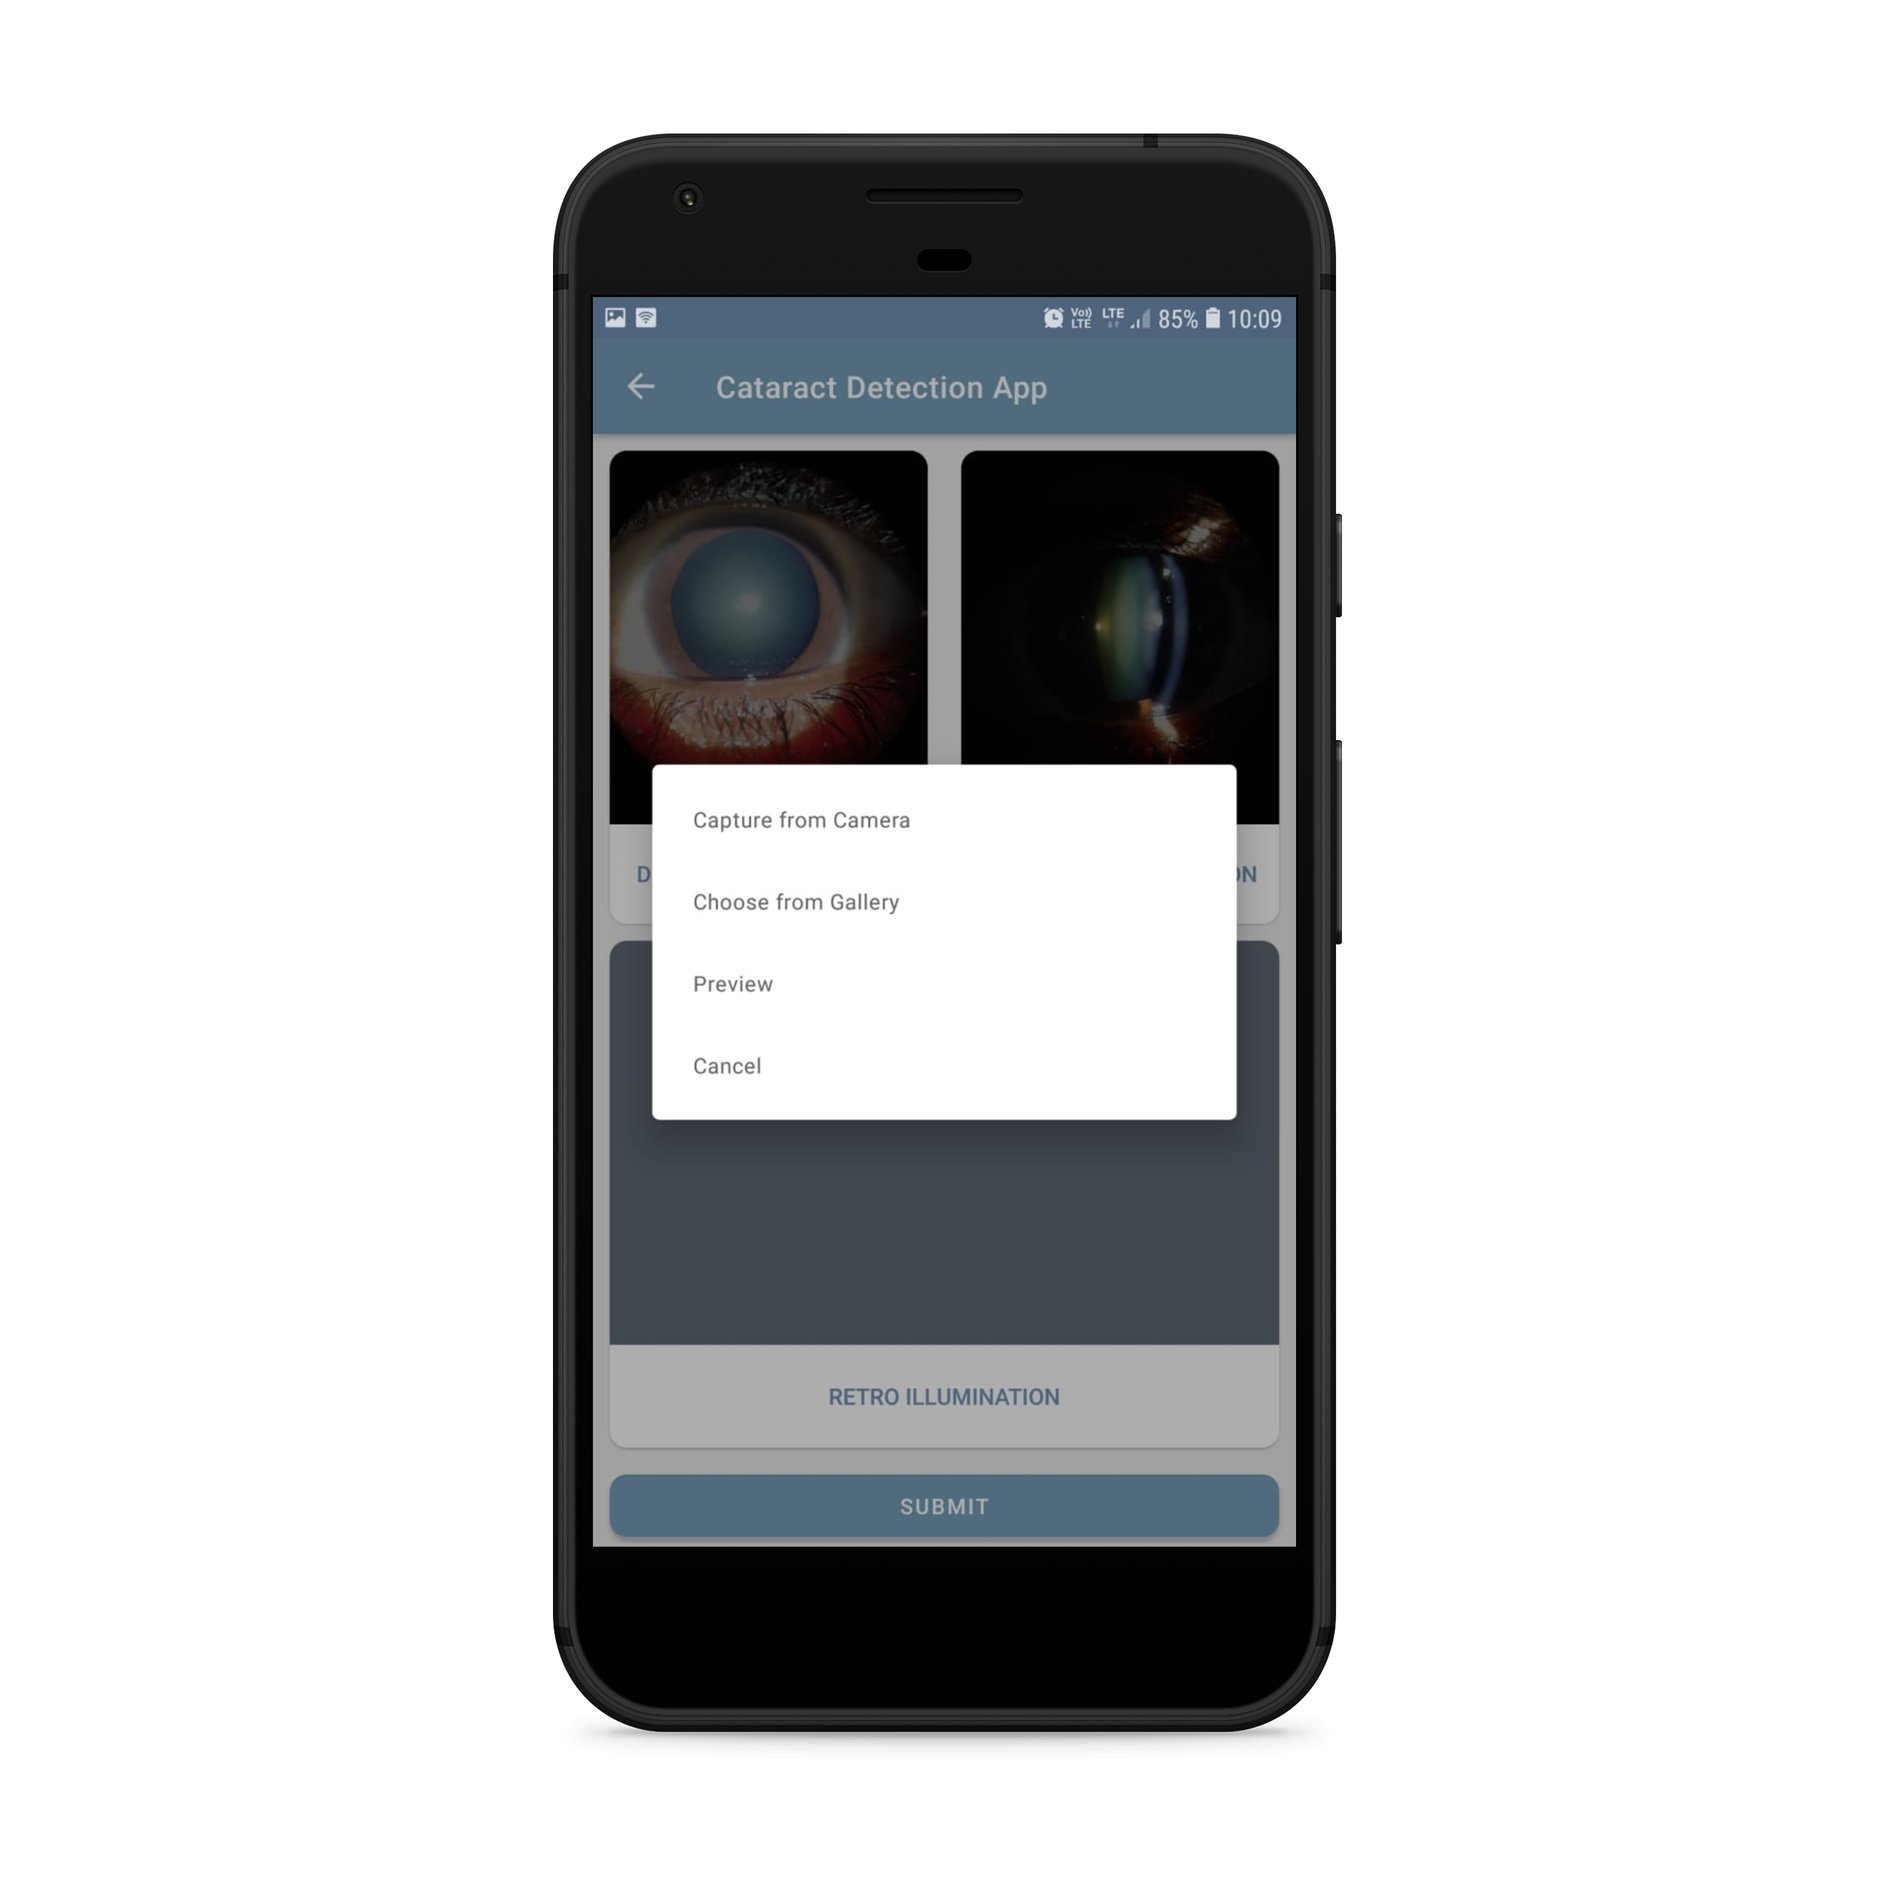
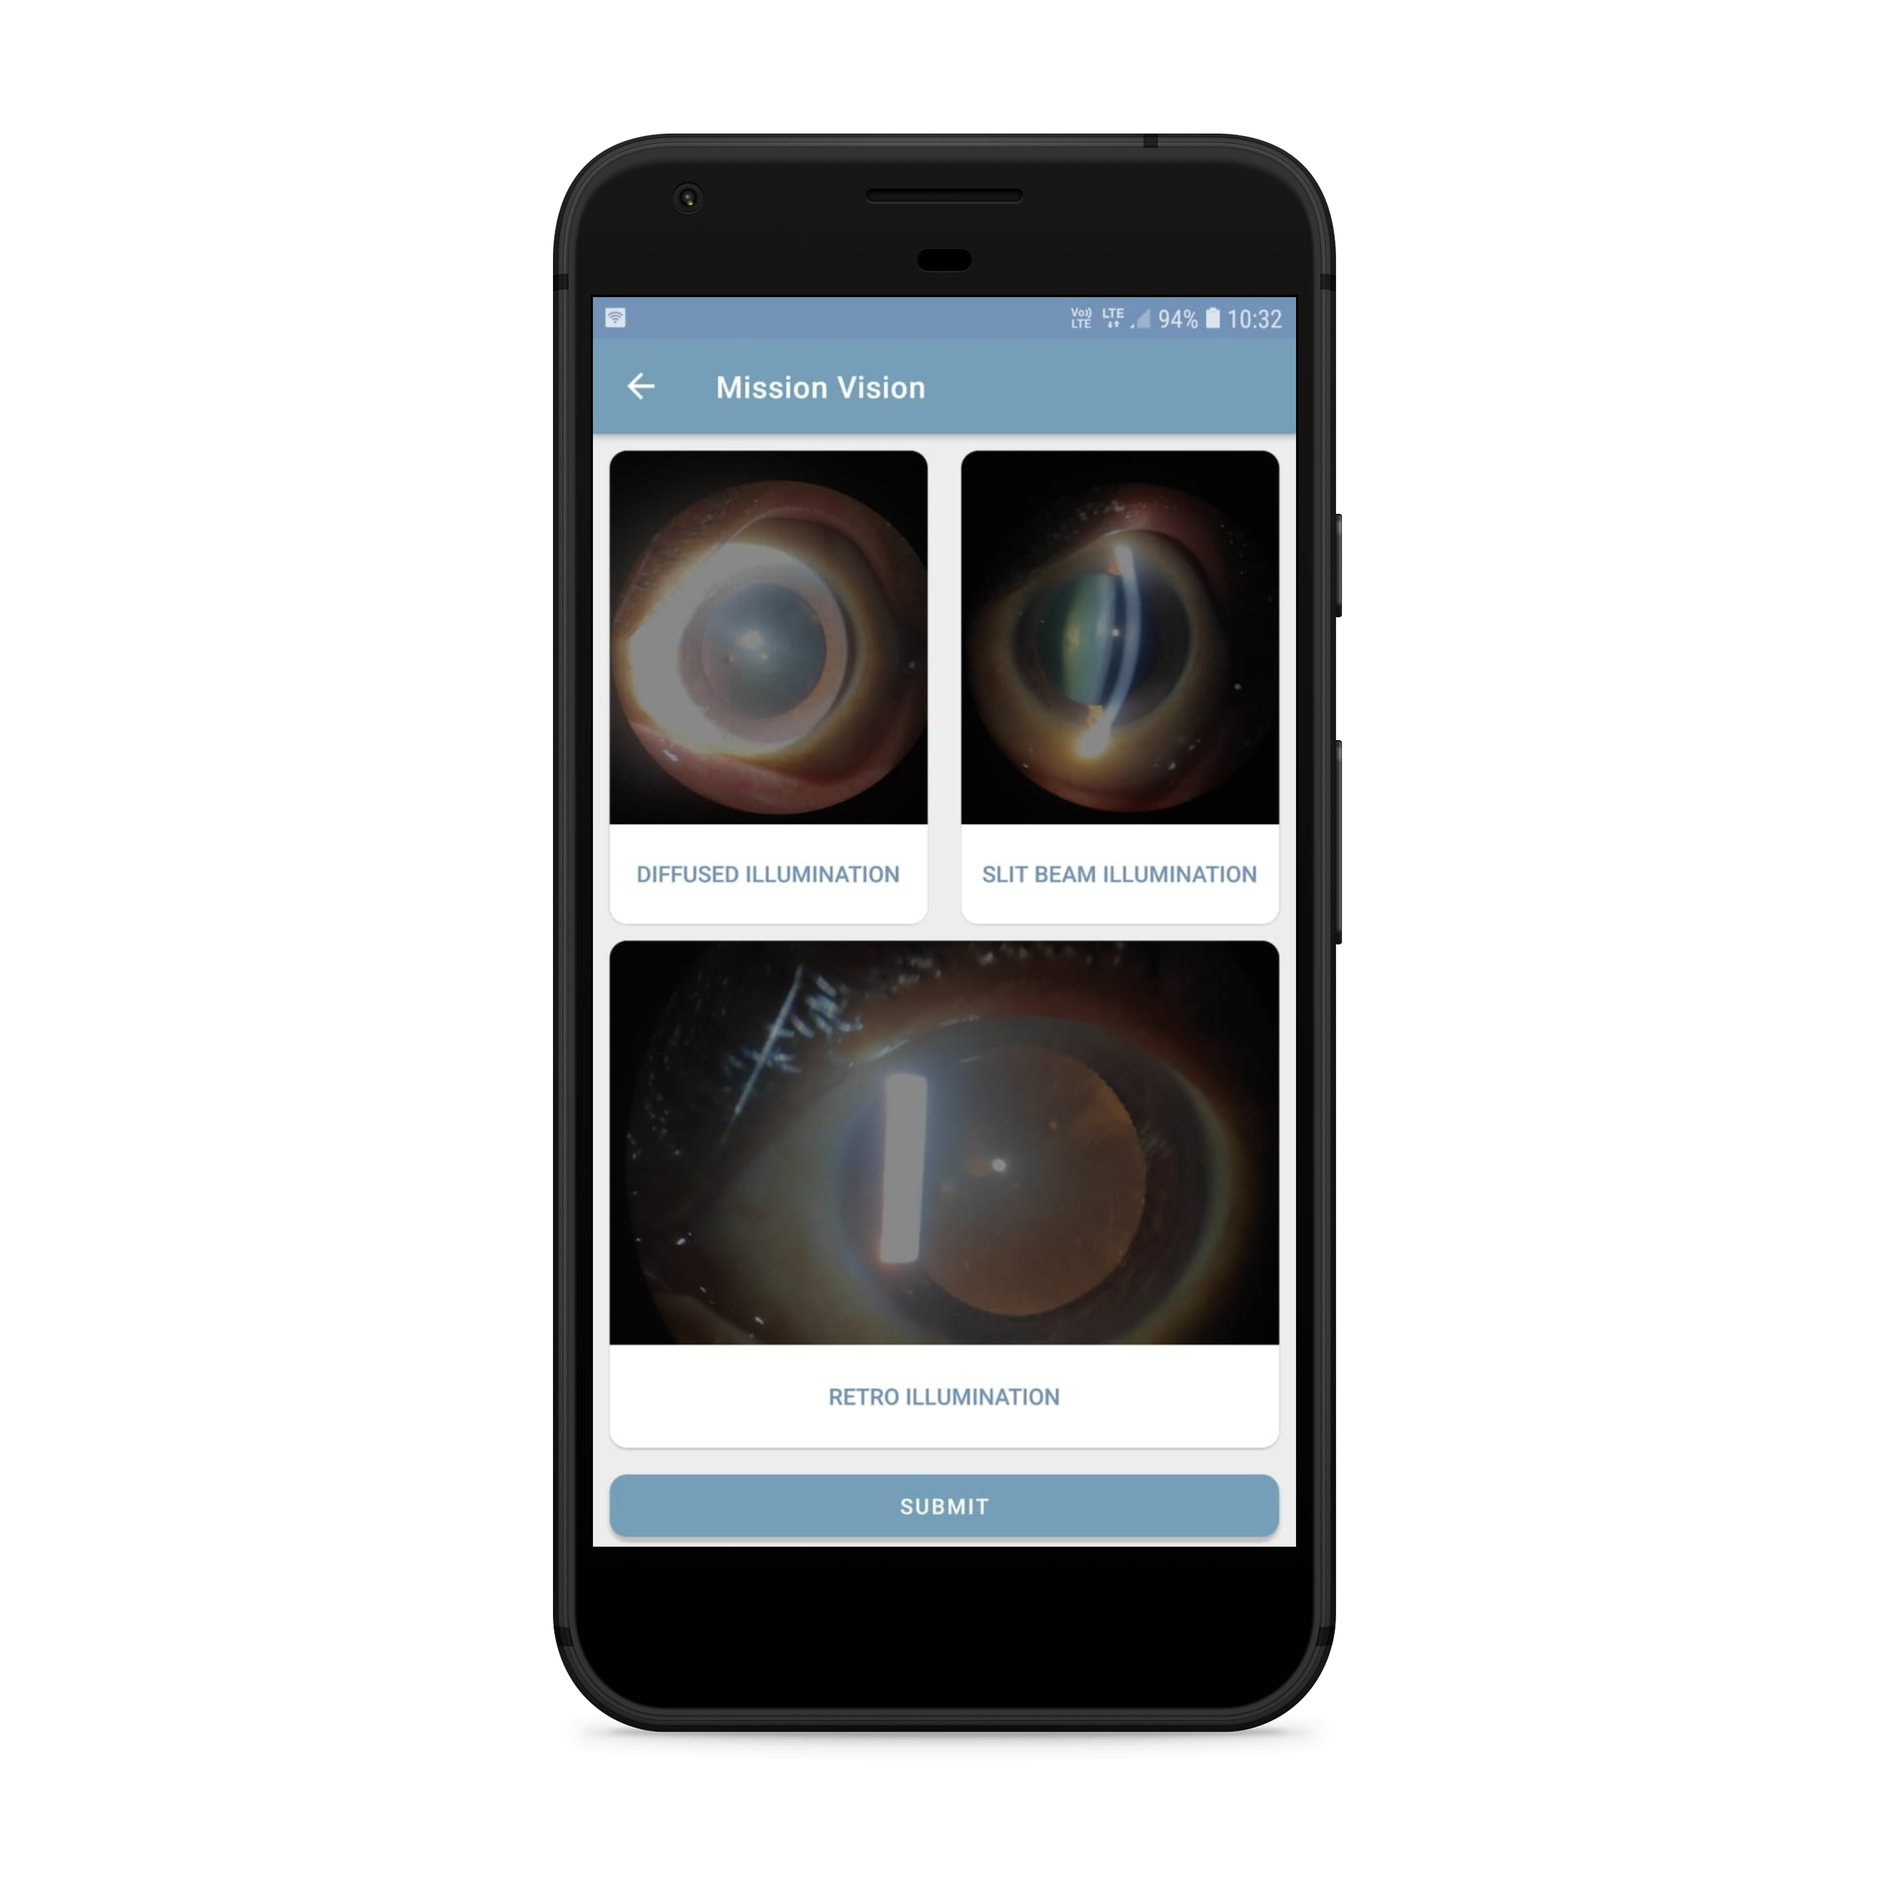
recent cases commit

Changed region(s): [[0.3105, 0.1549, 0.6831, 0.8367]]

diff --git a/app/src/main/java/com/android/example/cataractdetectionapp/InferenceActivity.java b/app/src/main/java/com/android/example/cataractdetectionapp/InferenceActivity.java
@@ -30,6 +30,7 @@ import androidx.annotation.Nullable;
 import androidx.annotation.WorkerThread;
 import androidx.appcompat.app.AppCompatActivity;
 import androidx.constraintlayout.widget.ConstraintLayout;
+import androidx.core.content.ContextCompat;
 import androidx.core.content.FileProvider;
 
 import com.bumptech.glide.Glide;
@@ -58,8 +59,8 @@ public class InferenceActivity extends AppCompatActivity {
     private Context mContext;
 
     private File dir;
-    private static final String PATH = Environment.getExternalStorageDirectory().getAbsolutePath();
-    private static final String BASE = PATH+"/Cataract Grading";
+    private static String PATH = null;
+    private static String BASE = null;
 
     private AutoCompleteTextView nuclear;
     private AutoCompleteTextView cortical;
@@ -68,6 +69,7 @@ public class InferenceActivity extends AppCompatActivity {
 
     private ActivityResultLauncher<Intent> camLaunch;
     private ActivityResultLauncher<Intent> galleryLaunch;
+    private ActivityResultLauncher<Intent> recentLaunch;
 
     private ImageView mRetroImage;
     private ImageView mDiffusedImage;
@@ -89,6 +91,8 @@ public class InferenceActivity extends AppCompatActivity {
     protected void onCreate(Bundle savedInstanceState) {
         super.onCreate(savedInstanceState);
         setContentView(R.layout.activity_inference);
+
+        setPath();
 
         createDirectory();
 
@@ -270,6 +274,51 @@ public class InferenceActivity extends AppCompatActivity {
                 }
         );
 
+        recentLaunch = registerForActivityResult(
+                new ActivityResultContracts.StartActivityForResult(),
+                result -> {
+                    int resultCode = result.getResultCode();
+                    Intent data = result.getData();
+                    if (resultCode == RESULT_OK && data != null) {
+                        Uri selectedImage = data.getData();
+                        String[] filePathColumn = {MediaStore.Images.ImageColumns.DATA};
+                        String picturePath;
+                        if (selectedImage != null) {
+//                            Log.d("", "onCreate: "+selectedImage.getPath());
+//                            Log.d("", "onCreate: "+filePathColumn[0]);
+//
+//                            Cursor cursor = getContentResolver().query(selectedImage, filePathColumn, null, null, null);
+//                            if (cursor != null) {
+//                                cursor.moveToFirst();
+//                                int columnIndex = cursor.getColumnIndex(filePathColumn[0]);
+//                                picturePath = cursor.getString(columnIndex);
+//                                cursor.close();
+//                            }
+//                            if(picturePath==null){
+//                                picturePath = selectedImage.getPath();
+//                            }
+                            String mainPath = selectedImage.getPath().split(":")[1];
+                            picturePath = PATH + File.separator + mainPath;
+                            Log.d("", "onCreate: "+picturePath);
+                            switch (gallery[0]){
+                                case 1:
+                                    retroPath = picturePath;
+                                    Glide.with(this).load(picturePath).into(mRetroImage);
+                                    break;
+                                case 2:
+                                    diffusedPath = picturePath;
+                                    Glide.with(this).load(picturePath).into(mDiffusedImage);
+                                    break;
+                                case 3:
+                                    obliquePath = picturePath;
+                                    Glide.with(this).load(picturePath).into(mObliqueImage);
+                                    break;
+                            }
+                        }
+                    }
+                }
+        );
+
         mRetroView.setOnClickListener(view -> {
             camera[0] = 1;
             gallery[0] = 1;
@@ -315,7 +364,7 @@ public class InferenceActivity extends AppCompatActivity {
     @WorkerThread
     private void loadModule(){
         try {
-            module = LiteModuleLoader.load(assetFilePath(getApplicationContext(), "Model_PyTorchCNN_forMobile_mine.ptl"));
+            module = LiteModuleLoader.load(assetFilePath(getApplicationContext(), "model.ptl"));
         } catch (IOException e) {
             e.printStackTrace();
         }
@@ -325,9 +374,12 @@ public class InferenceActivity extends AppCompatActivity {
     private int[] inference() throws IOException {
         Bitmap bmp1, bmp2, bmp3;
 
-        bmp1 = BitmapFactory.decodeFile(new File(diffusedPath).exists()?diffusedPath:assetFilePath(getApplicationContext(), "black_img.jpeg"));
-        bmp2 = BitmapFactory.decodeFile(new File(obliquePath).exists()?obliquePath:assetFilePath(getApplicationContext(), "black_img.jpeg"));
-        bmp3 = BitmapFactory.decodeFile(new File(retroPath).exists()?retroPath:assetFilePath(getApplicationContext(), "black_img.jpeg"));
+        bmp1 = BitmapFactory.decodeFile(diffusedPath!=null && diffusedPath.trim().length()!=0 && new File(diffusedPath).exists()
+                ?diffusedPath:assetFilePath(getApplicationContext(), "black_img.jpeg"));
+        bmp2 = BitmapFactory.decodeFile(obliquePath!=null && obliquePath.trim().length()!=0 && new File(obliquePath).exists()
+                ?obliquePath:assetFilePath(getApplicationContext(), "black_img.jpeg"));
+        bmp3 = BitmapFactory.decodeFile(retroPath!=null && retroPath.trim().length()!=0 && new File(retroPath).exists()
+                ?retroPath:assetFilePath(getApplicationContext(), "black_img.jpeg"));
 
         int WIDTH = 189;
         int HEIGHT = 336;
@@ -391,7 +443,7 @@ public class InferenceActivity extends AppCompatActivity {
     }
 
     private void chooseImagePicker(){
-        final CharSequence[] optionsMenu = {"Capture from Camera", "Choose from Gallery", "Preview", "Cancel"};
+        final CharSequence[] optionsMenu = {"Capture from Camera", "Choose from Gallery", "Recent Cases", "Preview", "Cancel"};
         MaterialAlertDialogBuilder builder = new MaterialAlertDialogBuilder(InferenceActivity.this);
         builder.setItems(optionsMenu, (dialogInterface, i) -> {
             if(optionsMenu[i].equals("Capture from Camera")){
@@ -420,6 +472,15 @@ public class InferenceActivity extends AppCompatActivity {
                 choosePicture.putExtra("REQUEST_CODE", 0);
                 galleryLaunch.launch(choosePicture);
             }
+            else if(optionsMenu[i].equals("Recent Cases")){
+                Intent intent = new Intent(Intent.ACTION_GET_CONTENT);
+                Uri uri = Uri.parse(Environment.getExternalStorageDirectory().getAbsolutePath()
+                        + "/Cataract Grading");
+                intent.setDataAndType(uri, "image/*");
+                intent = Intent.createChooser(intent, "Choose Image");
+                intent.putExtra("REQUEST_CODE", 0);
+                recentLaunch.launch(intent);
+            }
             else if(optionsMenu[i].equals("Preview")){
                 Intent displayImg = new Intent(this, ImagePreviewActivity.class);
                 String path;
@@ -447,9 +508,19 @@ public class InferenceActivity extends AppCompatActivity {
         builder.show();
     }
 
+    private void setPath(){
+        File[] files = ContextCompat.getExternalFilesDirs(getApplicationContext(), null);
+        if(files.length!=0){
+//            PATH = files.length>=2?files[1].getAbsolutePath():Environment.getExternalStorageDirectory().getAbsolutePath();
+            PATH = Environment.getExternalStorageDirectory().getAbsolutePath();
+            BASE = PATH+"/Cataract Grading";
+        }
+    }
+
     private void createDirectory(){
         new Thread(() -> {
-            File file = new File(BASE);
+            if(PATH==null) setPath();
+            File file = new File(PATH, File.separator+"Cataract Grading");
             if(!file.exists()){
                 boolean mkdir = file.mkdir();
             }
@@ -642,15 +713,53 @@ public class InferenceActivity extends AppCompatActivity {
         if(obliquePath!=null && !obliquePath.equals("")) Glide.with(this).load(obliquePath).into(mObliqueImage);
     }
 
-    /* Checks if external storage is available for read and write */
     public boolean isExternalStorageWritable() {
         String state = Environment.getExternalStorageState();
         return Environment.MEDIA_MOUNTED.equals(state);
     }
-    /* Checks if external storage is available to at least read */
+
     public boolean isExternalStorageReadable() {
         String state = Environment.getExternalStorageState();
         return Environment.MEDIA_MOUNTED.equals(state) ||
                 Environment.MEDIA_MOUNTED_READ_ONLY.equals(state);
+    }
+
+    private void externalStorage(){
+        final String state = Environment.getExternalStorageState();
+
+        if ( Environment.MEDIA_MOUNTED.equals(state) || Environment.MEDIA_MOUNTED_READ_ONLY.equals(state) ) {  // we can read the External Storage...
+            final File primaryExternalStorage = Environment.getExternalStorageDirectory();
+
+            final String externalStorageRootDir;
+            if ( (externalStorageRootDir = primaryExternalStorage.getParent()) == null ) {  // no parent...
+                Log.d("TAG", "External Storage: " + primaryExternalStorage + "\n");
+            }
+            else {
+                final File externalStorageRoot = new File( externalStorageRootDir );
+                final File[] files = externalStorageRoot.listFiles();
+
+                if(files!=null){
+                    for ( final File file : files ) {
+                        if ( file.isDirectory() && file.canRead() && (Objects.requireNonNull(file.listFiles()).length > 0) ) {  // it is a real directory (not a USB drive)...
+                            Log.d("TAG", "External Storage: " + file.getAbsolutePath() + "\n");
+                        }
+                    }
+                }
+            }
+        }
+    }
+
+    private static String SDCardPath(){
+        String strSDCardPath;
+        System.out.println("Env "+System.getenv().toString());
+        if (Environment.isExternalStorageRemovable()){
+            strSDCardPath = System.getenv("EXTERNAL_STORAGE");
+        } else {
+            strSDCardPath = System.getenv("SECONDARY_STORAGE");
+            if (strSDCardPath == null || strSDCardPath.length() == 0) {
+                strSDCardPath = System.getenv("EXTERNAL_SDCARD_STORAGE");
+            }
+        }
+        return strSDCardPath;
     }
 }

diff --git a/app/src/main/java/com/android/example/cataractdetectionapp/MainActivity.java b/app/src/main/java/com/android/example/cataractdetectionapp/MainActivity.java
@@ -7,6 +7,7 @@ import android.os.Build;
 import android.os.Bundle;
 import android.os.Environment;
 import android.text.TextUtils;
+import android.util.Log;
 import android.widget.ArrayAdapter;
 import android.widget.AutoCompleteTextView;
 import android.widget.Button;
@@ -40,7 +41,7 @@ public class MainActivity extends AppCompatActivity {
     private AutoCompleteTextView visionInput1;
     private AutoCompleteTextView visionInput2;
 
-    private static final String PATH = Environment.getExternalStorageDirectory().getAbsolutePath();
+    private static String PATH = null;
 
     @Override
     protected void onCreate(Bundle savedInstanceState) {
@@ -51,6 +52,8 @@ public class MainActivity extends AppCompatActivity {
             requestPermission();
         }
 
+        setPath();
+        System.out.println("path "+PATH);
         createDirectory();
 
         Button submit = findViewById(R.id.submit);
@@ -216,8 +219,20 @@ public class MainActivity extends AppCompatActivity {
                 .show();
     }
 
+    private void setPath(){
+        File[] files = ContextCompat.getExternalFilesDirs(getApplicationContext(), null);
+        Log.d("", "setPath: "+ Environment.getExternalStorageDirectory().getAbsolutePath());
+        if(files.length!=0){
+            for(File file : files){
+                Log.d("", "setPath: "+file.getAbsolutePath());
+            }
+            PATH = files.length>=2?files[1].getAbsolutePath():Environment.getExternalStorageDirectory().getAbsolutePath();
+        }
+    }
+
     private void createDirectory(){
         new Thread(() -> {
+            if(PATH==null) setPath();
             File file = new File(PATH, File.separator+"Cataract Grading");
             if(!file.exists()){
                 boolean mkdir = file.mkdir();
@@ -262,5 +277,4 @@ public class MainActivity extends AppCompatActivity {
 
         startActivity(intent);
     }
-
 }
